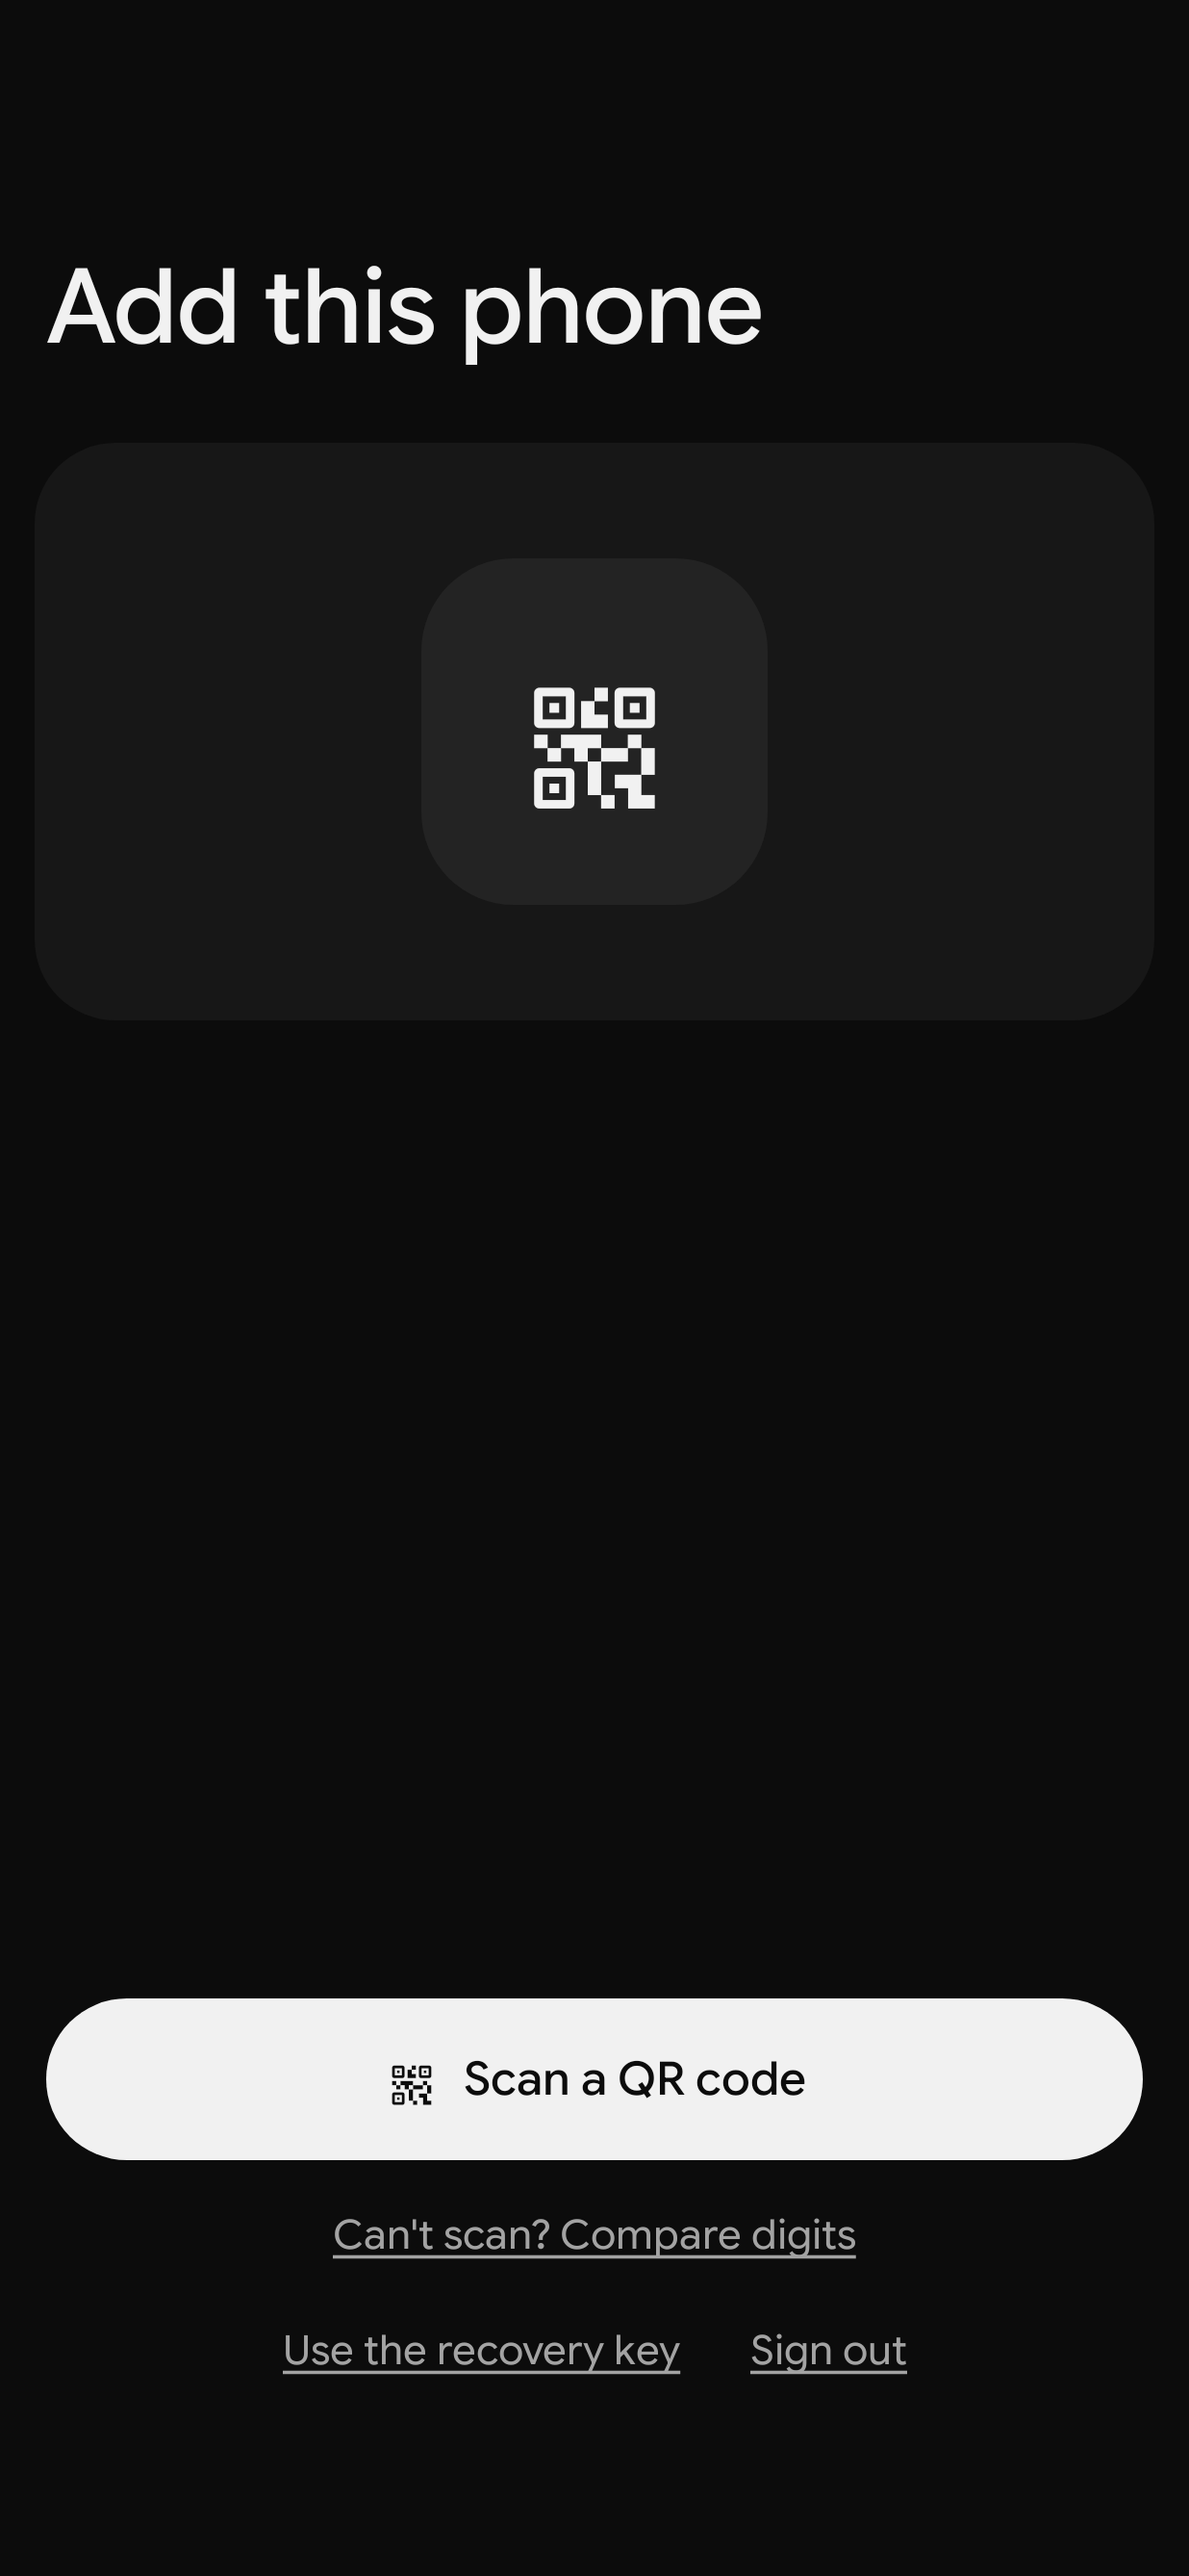
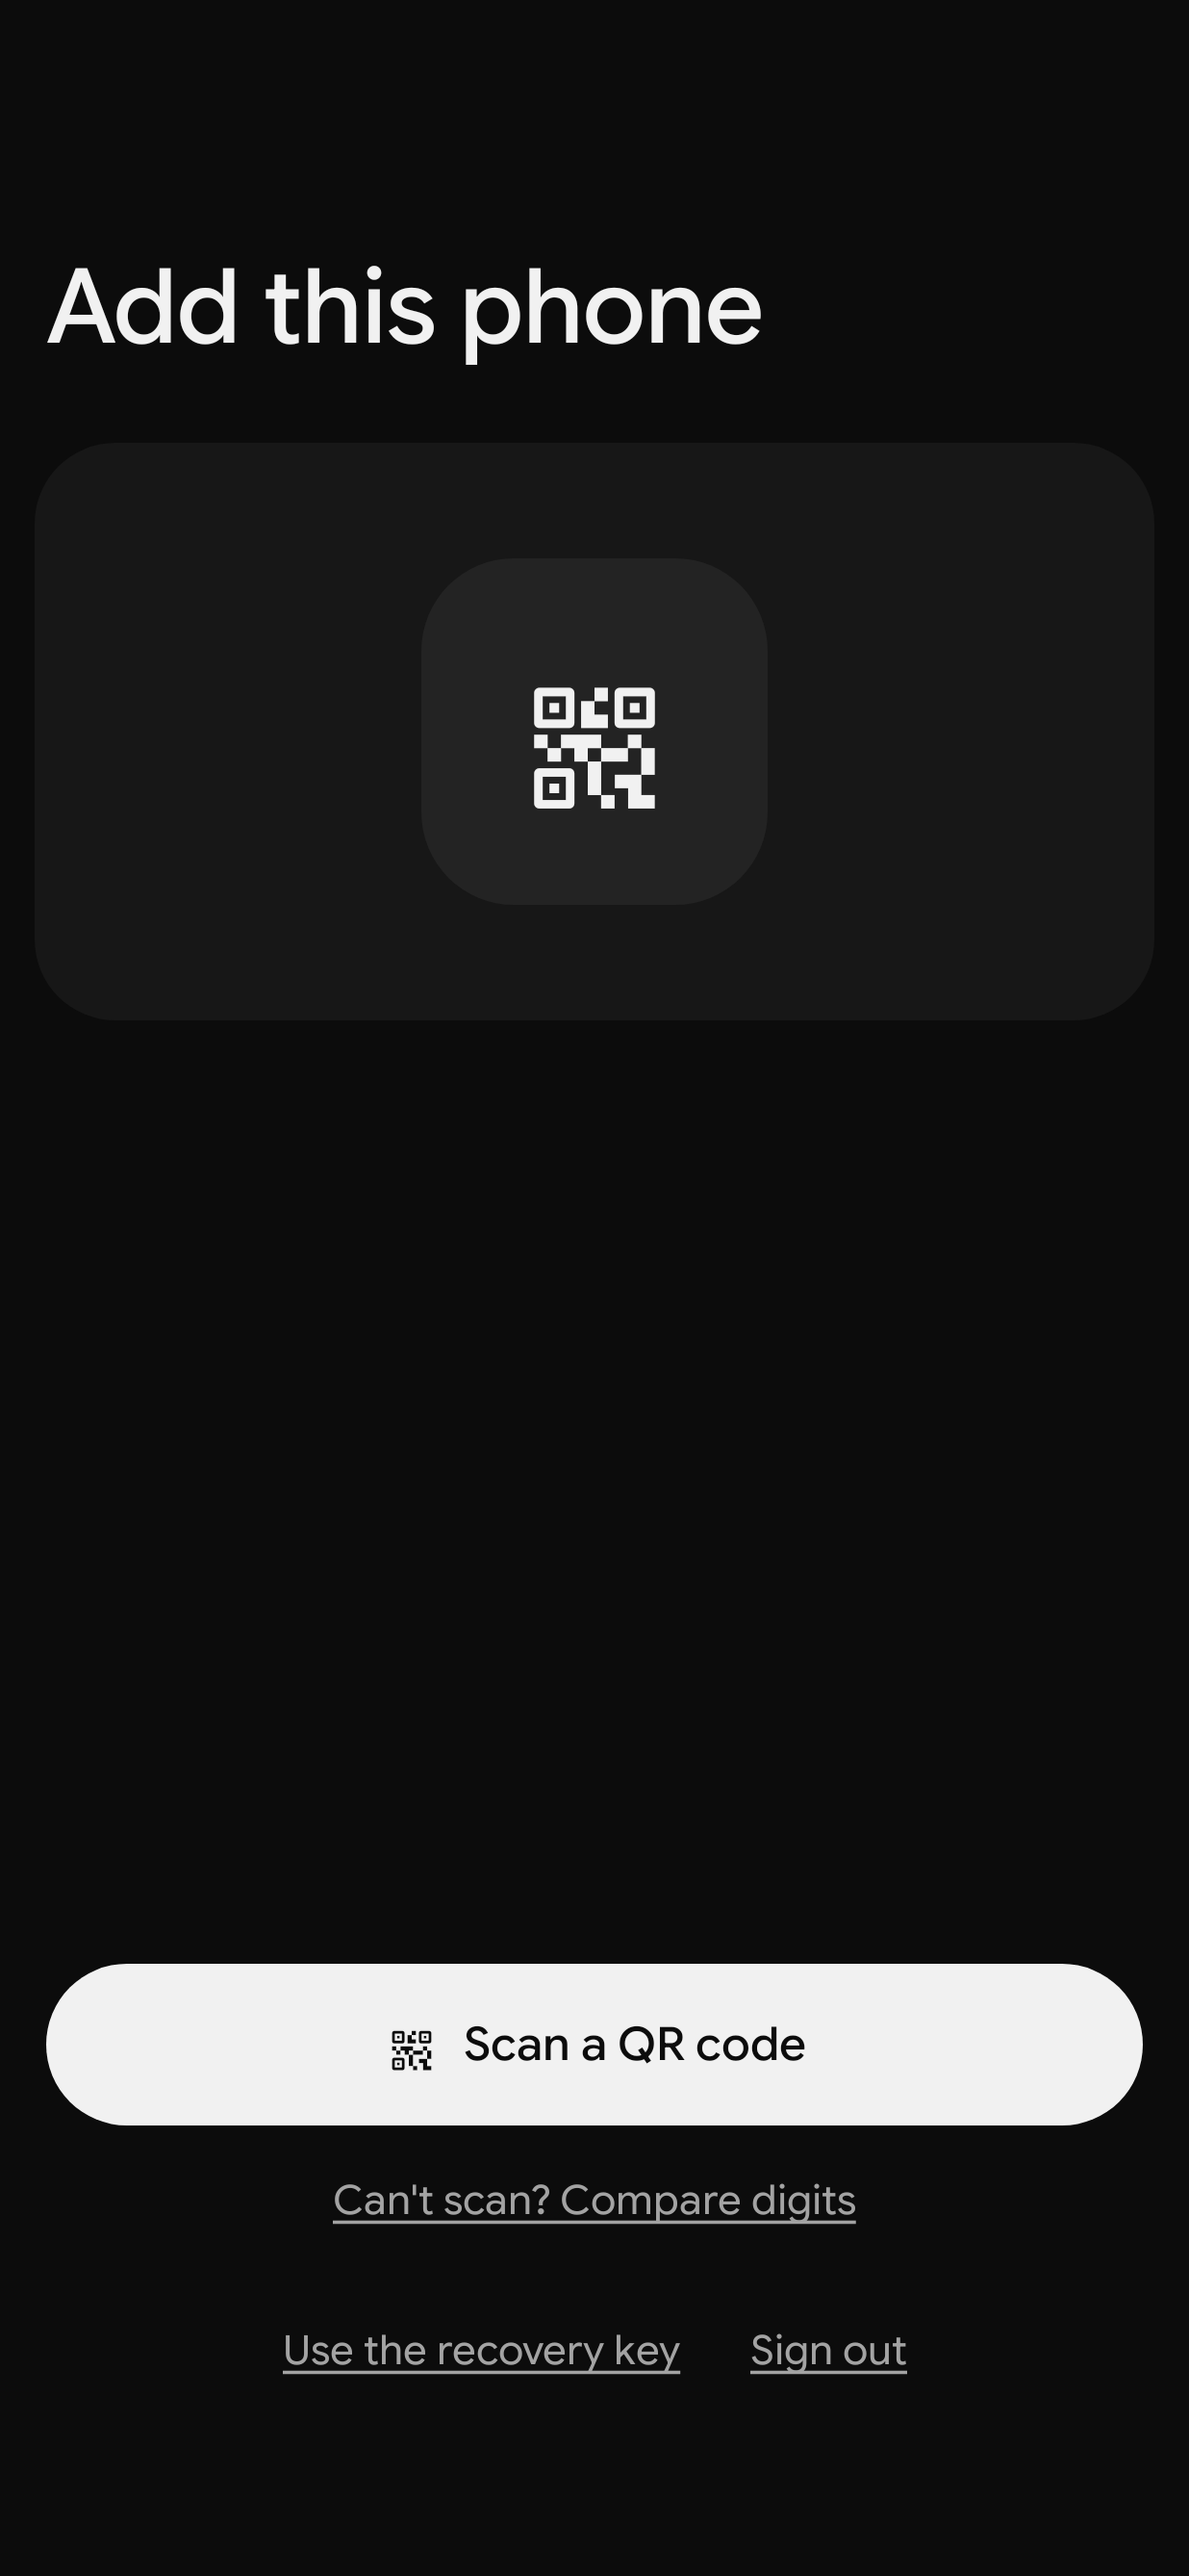
Setup: the stacked links keep 48 dp tap areas; the recovery key field's label reads at 4.5:1

Changed region(s): [[0.0307, 0.7444, 0.9838, 0.8995]]

diff --git a/android/app/src/main/kotlin/dev/starbridge/app/ui/setup/SetupScreen.kt b/android/app/src/main/kotlin/dev/starbridge/app/ui/setup/SetupScreen.kt
@@ -246,7 +246,8 @@ private fun Join(busy: Boolean, actions: SetupActions, modifier: Modifier) {
         bottom = {
             Primary("Scan a QR code", busy, icon = { Symbol(Sym.Qr, size = 20.dp) }, onClick = scan)
             Link("Can't scan? Compare digits", actions.askDevices)
-            FlowRow(horizontalArrangement = Arrangement.spacedBy(Spacing.s6, Alignment.CenterHorizontally)) {
+            // 24 dp under the link above, so each keeps a 48 dp tap area at every font size.
+            FlowRow(Modifier.padding(top = Spacing.s3), horizontalArrangement = Arrangement.spacedBy(Spacing.s6, Alignment.CenterHorizontally), verticalArrangement = Arrangement.spacedBy(Spacing.s6)) {
                 Link("Use the recovery key") { recovering = true }
                 Link("Sign out", actions.signOut)
             }
@@ -293,7 +294,8 @@ private fun Recover(busy: Boolean, actions: SetupActions, modifier: Modifier, on
                     supportingText = { Text(reading.problem ?: reading.status) },
                     isError = reading.problem != null,
                     textStyle = StarbridgeTheme.type.machine,
-                    colors = fieldColors(),
+                    // The default label reads at 4.4:1 on the field; this one clears 4.5:1.
+                    colors = fieldColors().copy(unfocusedLabelColor = MaterialTheme.colorScheme.onSurface),
                     // Masked as a password, with the eye to check what was typed (#274).
                     visualTransformation = if (shown) VisualTransformation.None else PasswordVisualTransformation(),
                     trailingIcon = {
